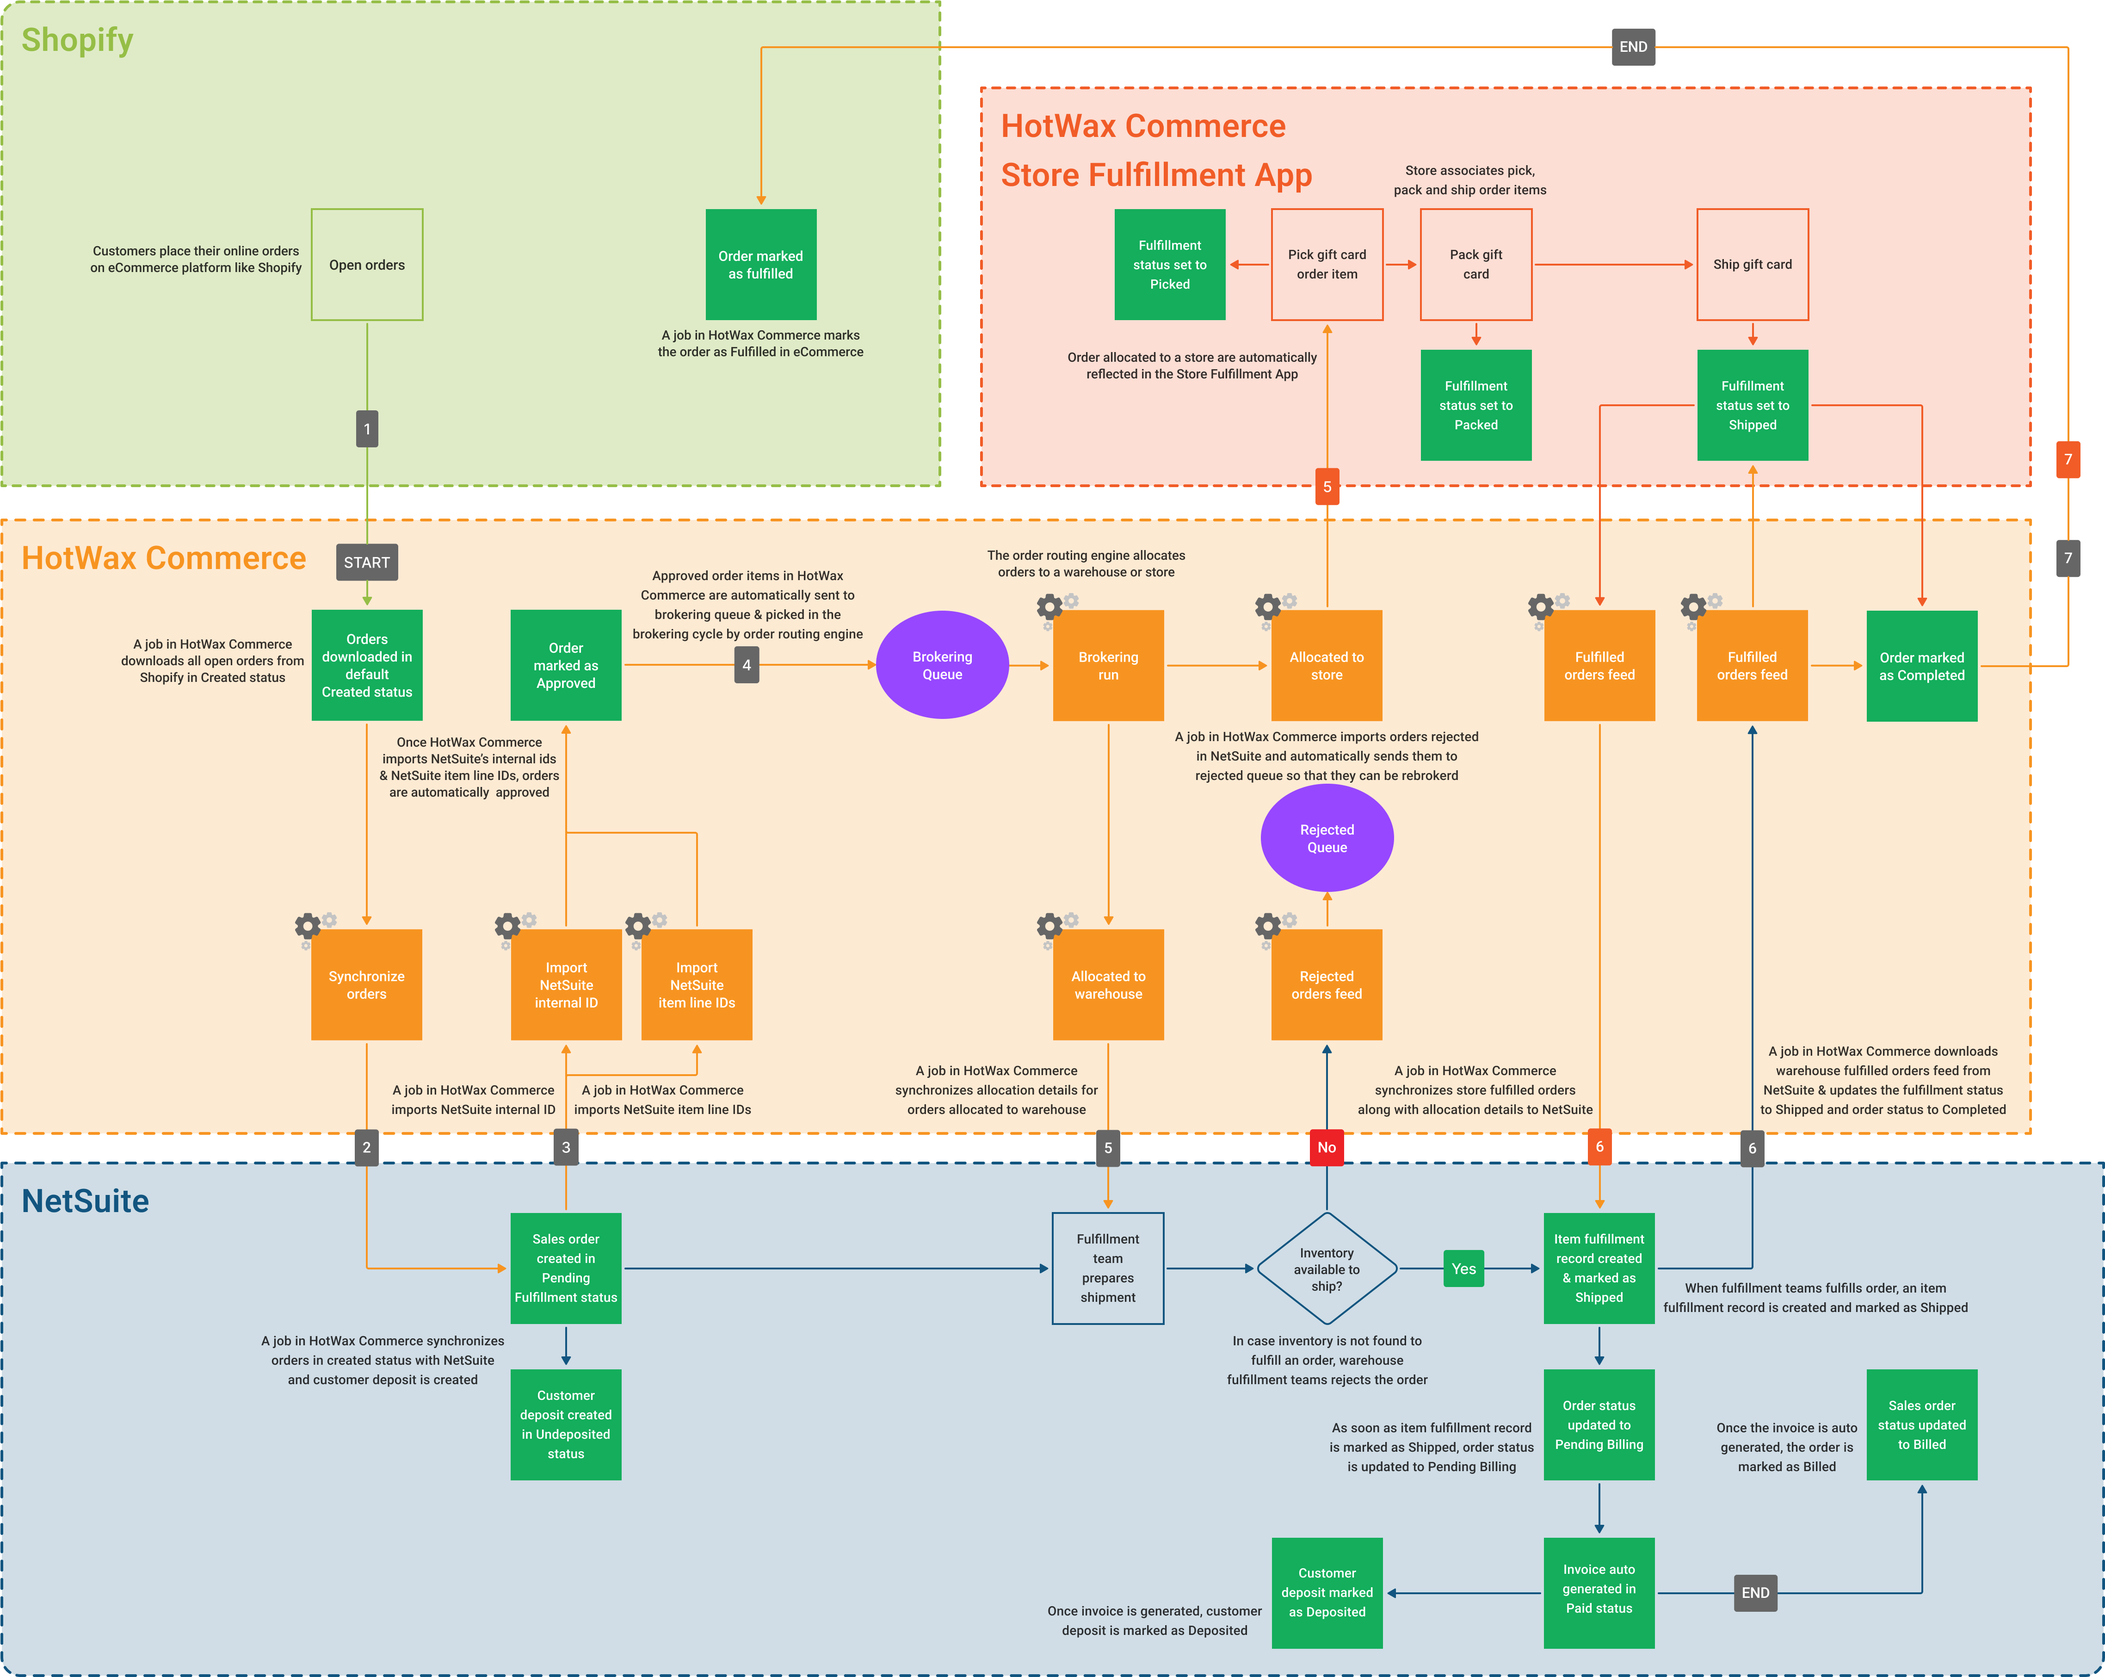
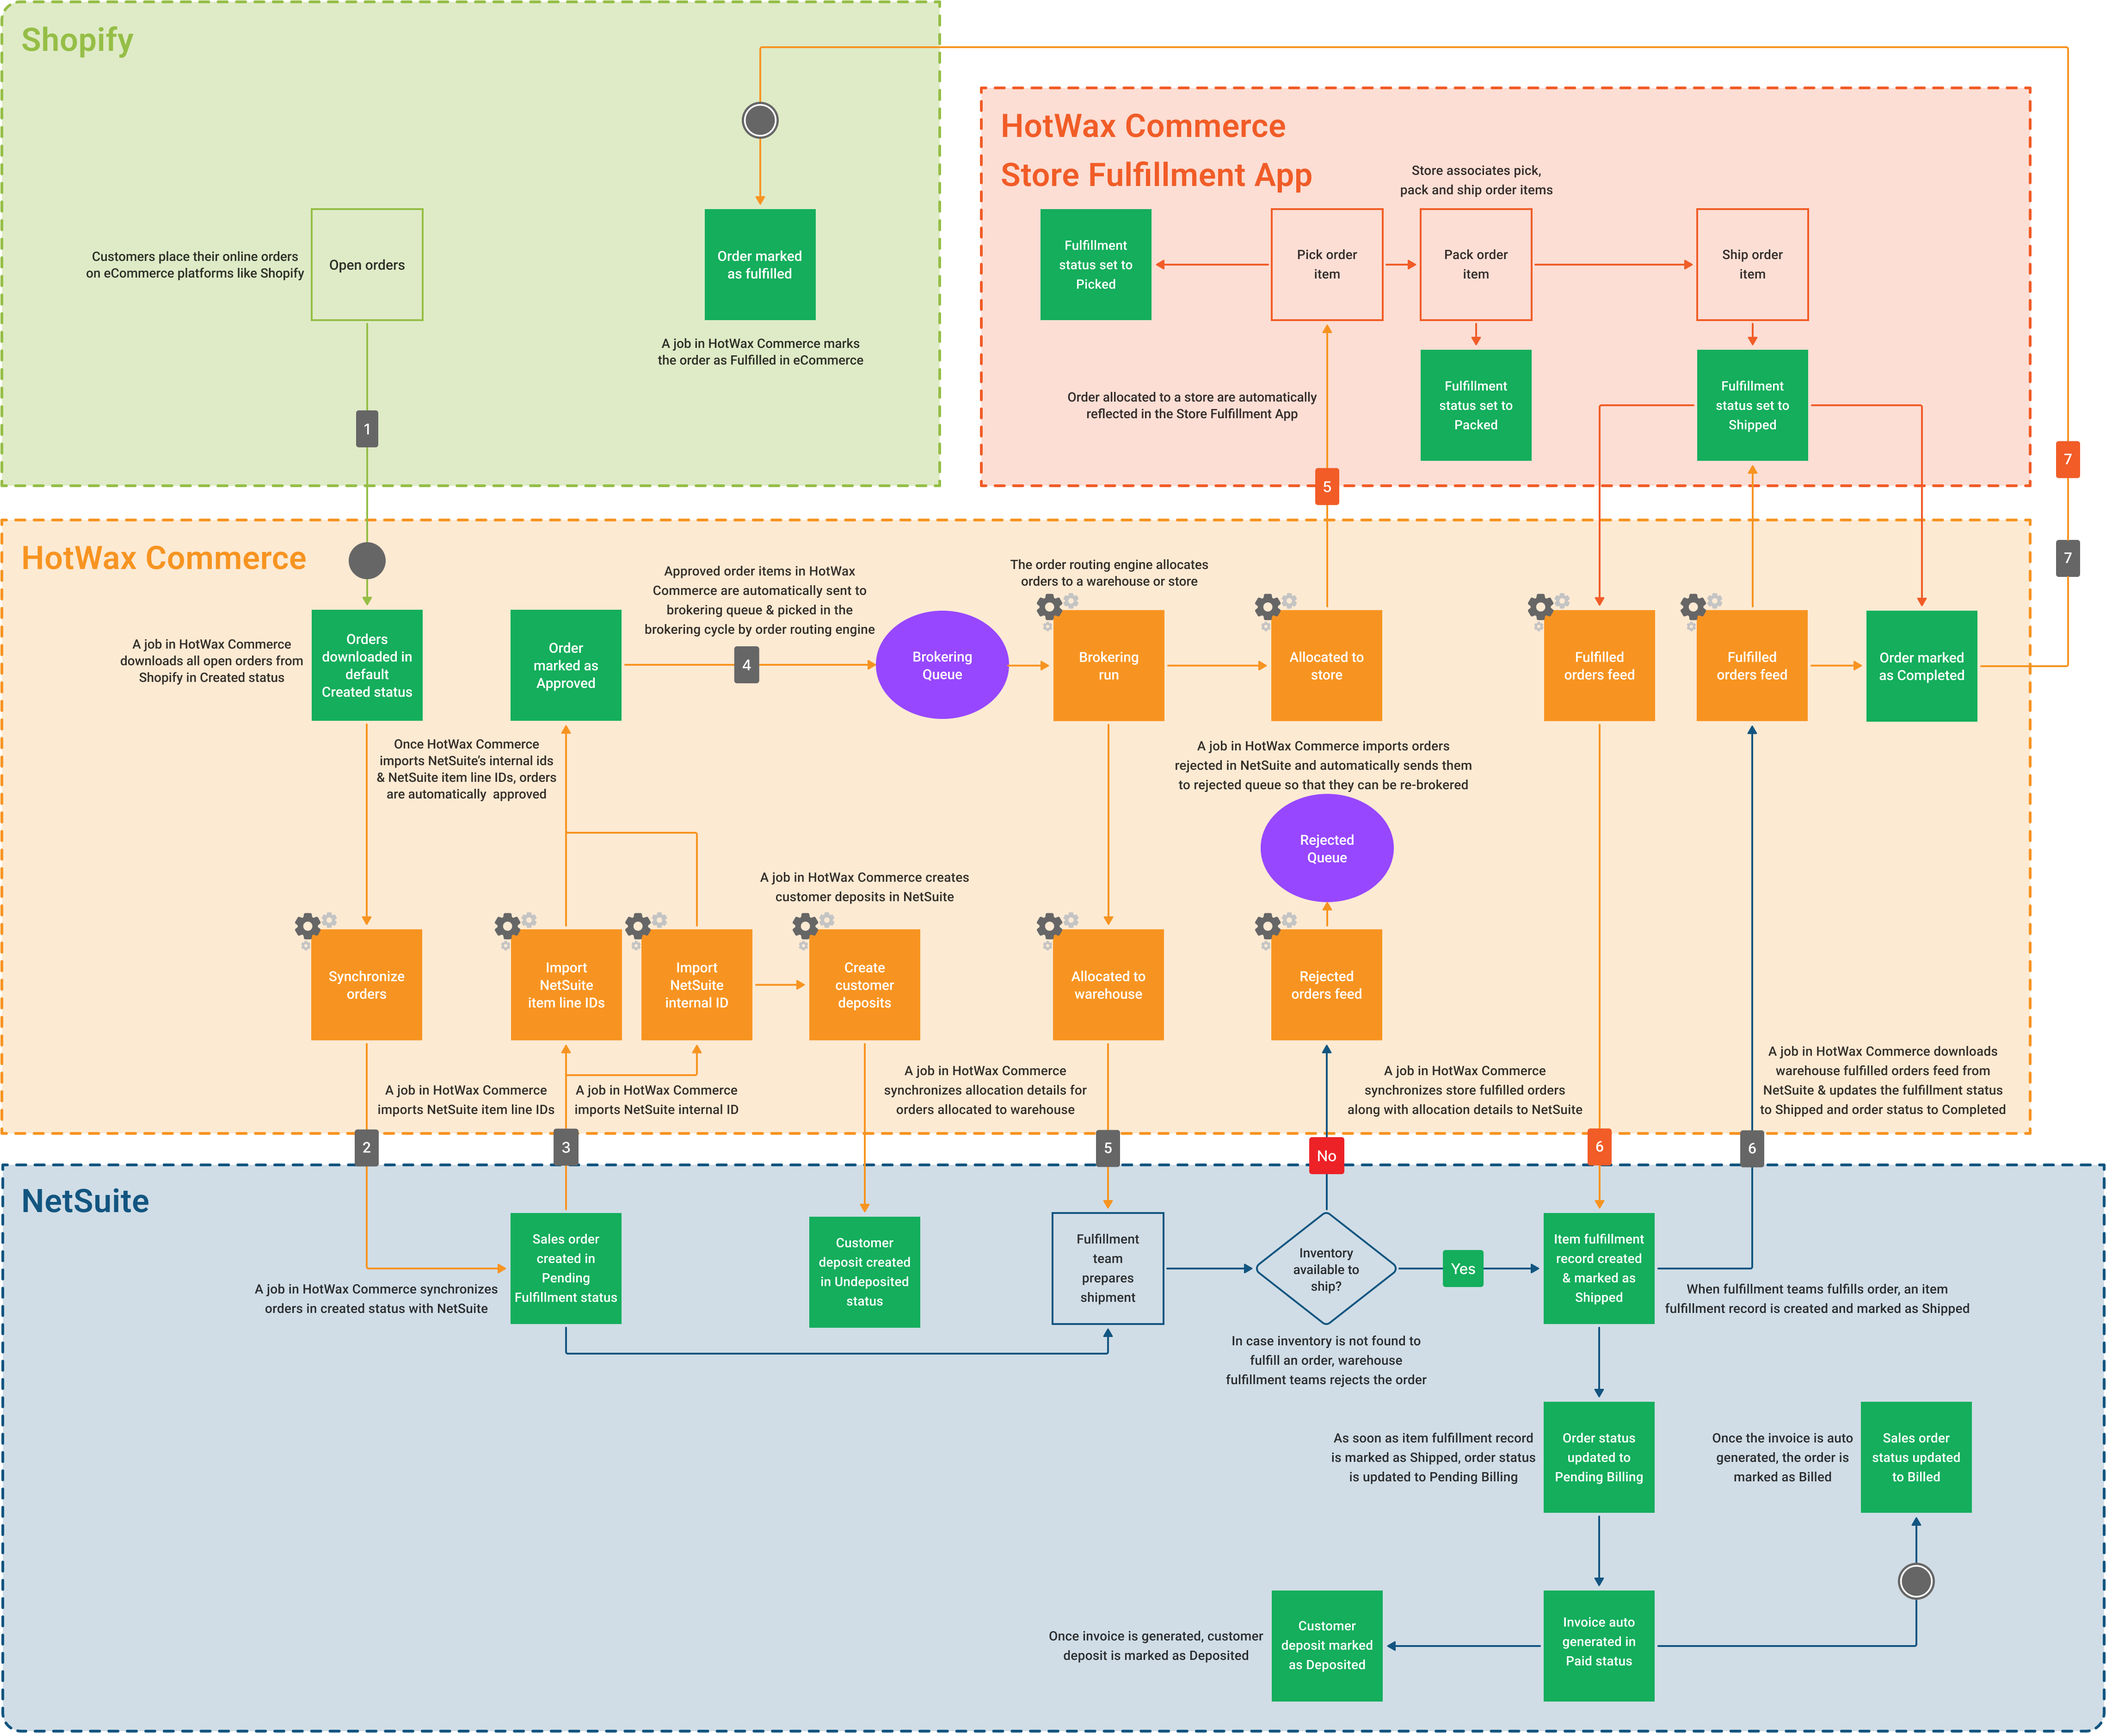
GITBOOK-9: Updated NetSuite order lifecycle image

diff --git a/documents/learn-netsuite/netsuite-integration/Flows/SalesOrder/README.md b/documents/learn-netsuite/netsuite-integration/Flows/SalesOrder/README.md
@@ -20,7 +20,7 @@ Here is the **NetSuite Order Lifecycle Business Process Model** that provides st
 
 ## NetSuite Order Lifecycle BPM
 
-<figure><img src="../../../.gitbook/assets/NetSuite order lifecycle bpm (2).png" alt=""><figcaption><p>NetSuite order lifecycle business process model</p></figcaption></figure>
+<figure><img src="../../../.gitbook/assets/NetSuite order lifecycle bpm.png" alt=""><figcaption><p>NetSuite order lifecycle business process model</p></figcaption></figure>
 
 Most of our customers use Shopify as their eCommerce platform along with NetSuite as their ERP and warehouse fulfillment solution. Therefore, to explain the NetSuite Order Lifecycle BPM, we have taken Shopify as the eCommerce platform, NetSuite as the ERP and warehouse fulfillment solution, with HotWax Commerce as the Order Management System.
 
